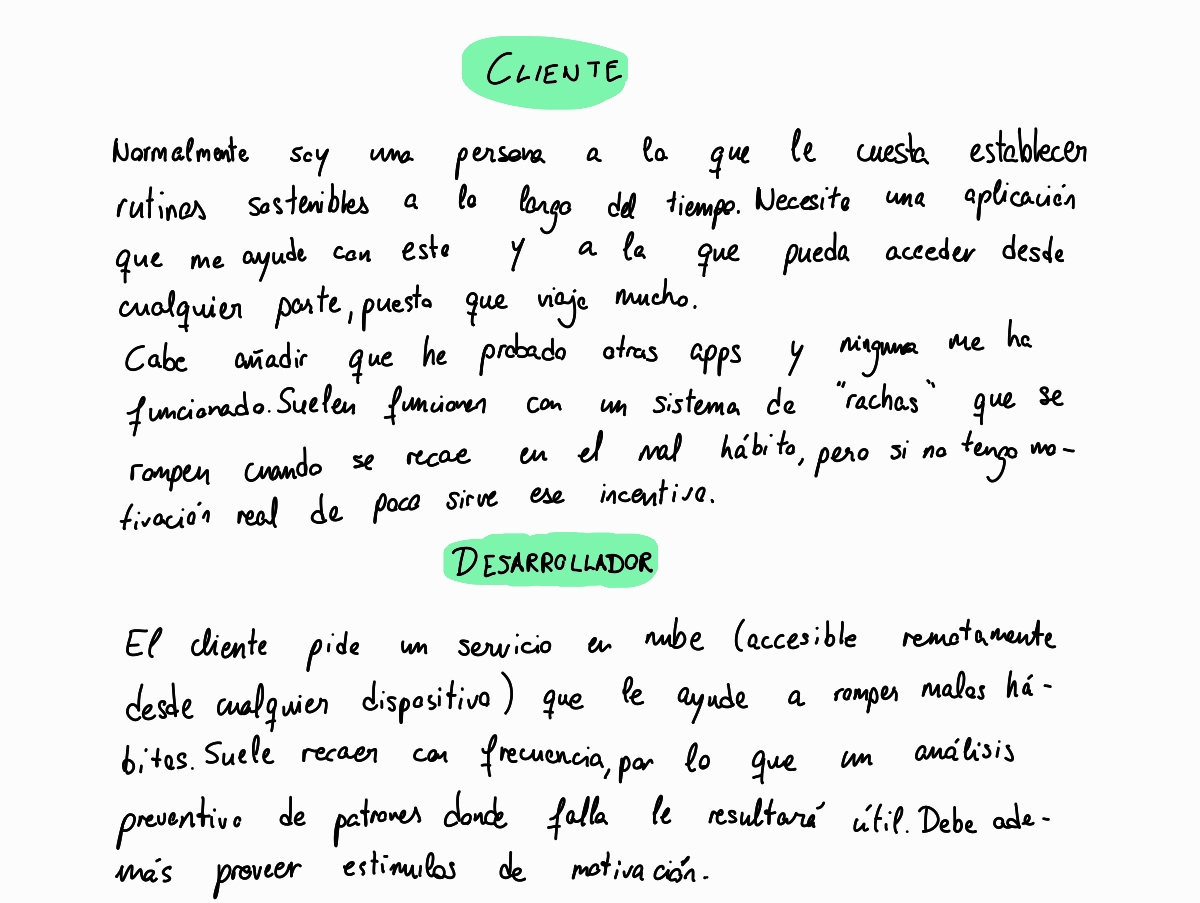
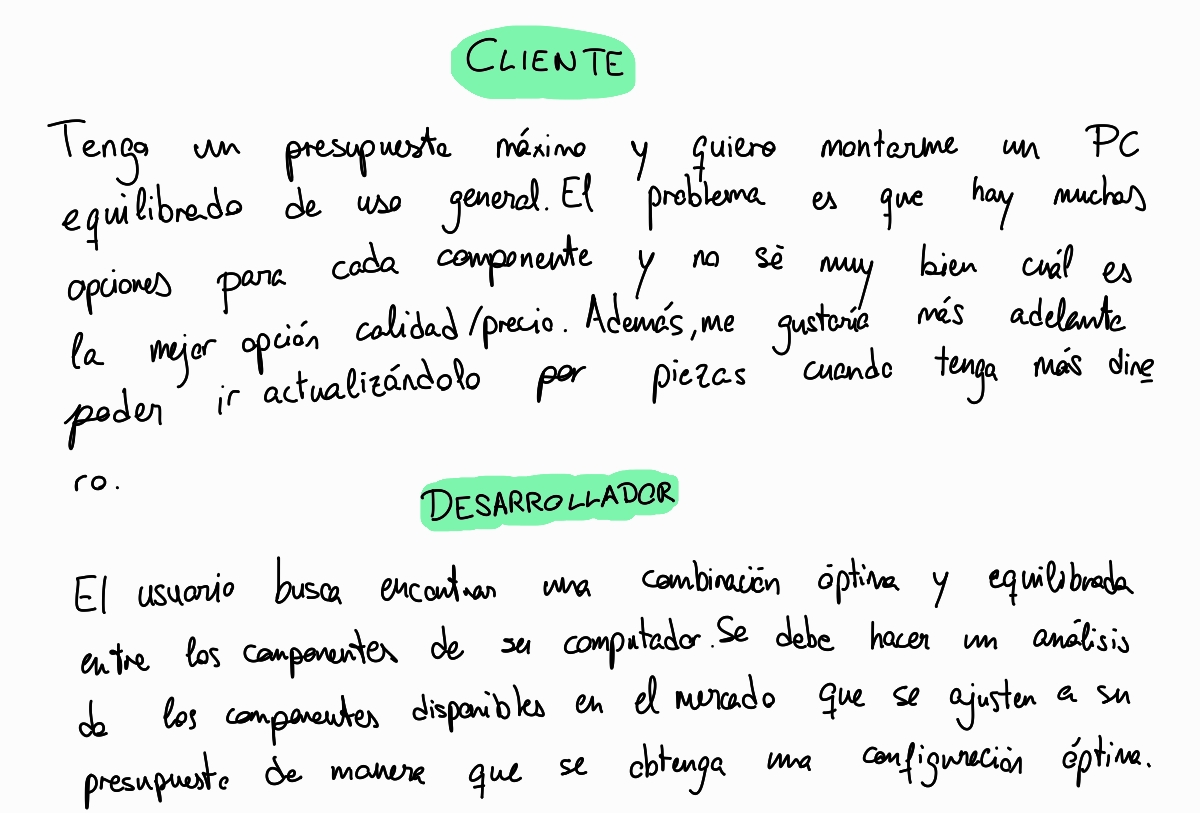
Modificación completa del repositorio; cambio O0 entero

diff --git a/README.md b/README.md
@@ -1,37 +1,12 @@
-# PersistApp
+# PerfectPC
 Software de rastreo de hábitos y análisis de tendencias semanales.
 
 ## Definición del problema
-Es muy común que cuando una persona se propone crear un hábito (bien un hábito positivo, o dejar de caer en patrones negativos), se vea incapaz de hacerlo por no tener un soporte constante que le anime a seguir adelante. No existe una alternativa real que permita predecir con seguridad el patrón con el que se falla a la hora de intentar establecer un hábito saludable, que a menudo es posible medirlo, pues suele estar asociado a eventos (estrés laboral/académico, mala calidad de sueño, o días festivos, entre otros).
-
-Los servicios tradicionales basados en notificaciones periódicas sufren de habituación, perdiendo efectividad al corto plazo al no poder identificar los momentos de mayor vulnerabilidad o riesgo de incumplimiento de metas. Por tanto, aparece la necesidad de analizar y caracterizar los patrones por los que se falla a partir de un historial de actividad para poder identificar cuándo y bajo qué circunstancias hay mayor riesgo de ruptura de un ciclo de hábitos.
-
-Por ejemplo, digamos que un usuario se propone acostarse todos los días sin excepción a las 21:30, pero que los fines de semana, al no tener la presión de ser el día siguiente lectivo, se acuesta más tarde. PersistApp, en este caso, notificará cuando se acerque la fecha al usuario para recordarle que su tendencia es que los viernes y los sábados se quede despierto hasta las tantas.
-
-Esto es una especificación, pero se puede ampliar a muchos ámbitos: la persona que deja de fumar tiene la manía de fumarse un cigarro todos los días después de comer, quien intenta bajar de peso se da atracones los fines de semana al salir, hay personas que intentan estudiar a diario dos horas y caen en el ciclo de no estudiar los fines de semana...
-
-## Necesidad de cómputo principal del software
-
-El análisis de los patrones donde se rompen estos ciclos no es trivial. Se debe tener previamente un registro de las tendencias que ha tenido el usuario previamente y se debe procesar y comparar con los datos actuales. Si tanto esta semana, como la anterior, los viernes no cumple su objetivo, se determina que existe un factor común, y se guardan esos datos.
-
-## Necesidad de despliegue en la nube
-
-El usuario ha de tener un registro constante en cualquiera de sus dispositivos, y en cualquier parte, lo que ya es indicio de la necesidad de un despliegue en la nube. Además, se deben guardar datos de estos patrones, por lo que debe existir algún almacenamiento persistente remoto al que cualquier instancia del programa en diferentes dispositivos del usuario deben ser capaces de acceder.
-
-## Datos
-
-Actualmente existen varias fuentes reales y públicas de conjuntos de datos, extraídos de un sector de la población que fueron monitorizados a lo largo de su rutina diaria. En concreto, para este proyecto, se usarán a la hora de pasar las pruebas los conjuntos de datos del repositorio de GLOBEM y del proyecto StudentLife, hecho por la universidad de Dartmouth. El primero montiroea diferentes propiedades de la vida, y el segundo se centra en el uso del teléfono móvil.
-
-Para nuestro caso, ambos son perfectamente válidos (digamos que monitorizan dos tipos de hábitos diferentes).
-
-## Configuración
-
-Pendiente de concretar.
+El usuario tiene un presupuesto máximo para montar un PC para uso común, es decir, con un equilibrio en la potencia de los componentes. El problema es que hay muchas opciones para cada uno de los componentes, y no puede determinar con precisión cuál es la mejor opción calidad/precio entre todas las disponibles. Además, le gustaría más adelante, cuando su capacidad adquisitiva aumente, ir mejorando componente a componente su PC.
 
 ## Referencias
 
-- **[Repositorio de conjunto de datos de tendencias en sociedad GLOBEM](https://github.com/UW-EXP/GLOBEM)**
-- **[Repositorio de conjunto de datos de tendencias de estudiantes universitarios en Dartmouth](https://github.com/frycast/studentlife)**
+- **[Repositorio de componentes de PC en formato JSON](https://github.com/docyx/pc-part-dataset)**
 
 ## Documentos
 

diff --git a/Objetivos/Objetivo_0/objetivo-0.md b/Objetivos/Objetivo_0/objetivo-0.md
@@ -4,24 +4,16 @@ He decidido pasar a limpio en mi tablet ambas tarjetas.
 
 <img src="../../Media/Fotos/0_1_JuegoDeRol.jpg" width="65%">
 
+## Justificación de despliegue en la nube
+
+Se justifica un despliegue en la nube por la elevada demanda de capacidad computacional del algoritmo. Escoger subconjuntos que cumplan una condición (en nuestro caso, suma menor o igual al máximo de presupuesto introducido) es un problema NP-difícil; es decir, elevada complejidad computacional para encontrar el subconjunto, y además no verificable inmediatamente sin comparaciones.
+
+## Justificación de complejidad computacional
+
+El problema que he planteado es una versión del problema de suma de subconjuntos, en este caso enfocada a la optimización. La complejidad asintótica, si bien depende del algoritmo implementado, es del orden exponencial con base 2 en el peor de los casos.
+
 ## Configuración del repositorio
 
 * Licencia: GNU General Public License, versión 3.
-* Control de versiones: Uso de git (mediante clave SSH, véase captura abajo) aplicado a cualidades de desarrollo ágil (creación de ramas, issues, milestones, pipelines CI/CD, etc)
-* Estructura:
-PersistApp\
-├── Media\
-│   └── Todo lo relacionado a contenido audiovisual (imágenes, audio, vídeo, etc)\
-├── Objetivos\
-│   ├── Objetivo_0\
-│   │   └── Ficheros de objetivo 0\
-│   ├── Objetivo_1\
-│   │   └── Ficheros de objetivo 1\
-│   ├── ...\
-│   └── Objetivo_9\
-│       └── Ficheros de objetivo 9\
-├── LICENSE\
-├── README.md\
-└── .gitignore\
-*árbol generado con [esta](https://devtool.tech/en/tree) herramienta*
+* Control de versiones: Uso de git (mediante clave SSH, véase captura abajo) aplicado a cualidades de desarrollo ágil (creación de ramas, issues, milestones, pipelines CI/CD, etc).
 <img src="../../Media/Fotos/0_2_ssh.jpg" width="40%">
